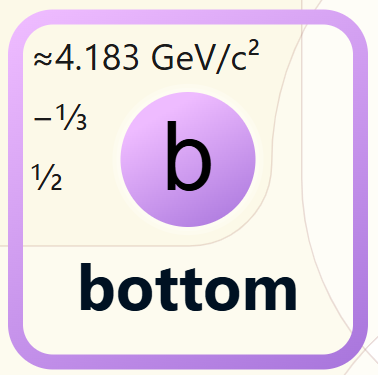
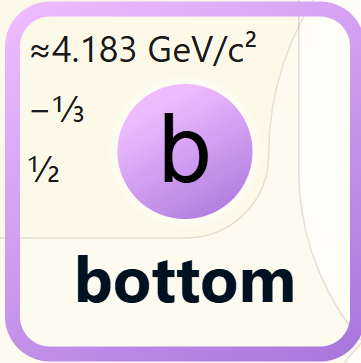
Added color and updated 'how to read'

diff --git a/stylesheet.css b/stylesheet.css
@@ -1,17 +1,24 @@
+html {
+    background-color: rgb(81, 155, 192);
+}
+
 h1 {
     text-align: center;
+    color: rgb(173, 213, 232);
     font-family: "Mrs Saint Delafield", cursive;
     font-size: 100px;
 }
 
 h2 {
     text-align: center;
+    color: rgb(173, 213, 232);
     font-family: "Mrs Saint Delafield", cursive;
     font-size: 50px;
 }
 
 p {
     font-family: Arvo;
+    color: rgb(173, 213, 232);
     font-size: 20px;
     margin: 40px;
 }
@@ -24,6 +31,7 @@ p {
     justify-content: space-evenly;
     align-items: center;
     margin-top: 30px;
+    color: rgb(173, 213, 232);
 }
 .mrs-saint-delafield-regular {
     font-family: "Mrs Saint Delafield", cursive;
@@ -107,7 +115,7 @@ p {
 }
 
 .item :hover {
-    border: 5px solid #3832b2;
+    border: 8px solid rgb(33, 136, 188);
     border-radius: 15px;
 }
 
@@ -122,19 +130,24 @@ p {
     border-radius: 10px;
 }
 
+img {
+    border-radius: 10px;
+}
+
 a {
     text-decoration: none;
-    color: black;
+    color: rgb(173, 213, 232);
 }
 
 
  a:hover {
-    color: grey;
+   color: rgb(33, 136, 188);
 }
 
 .footer{
     margin-top: 30px;
-    border: 3px solid black;
+    background-color: white;
+    border: 8px solid rgb(33, 136, 188);
     border-radius: 10px;
     margin: 0;
     padding: 30px;
@@ -148,5 +161,9 @@ a {
 .footer a{
     padding: 10px;
     font-family: Arvo;
-    color: black;
+    color: rgb(173, 213, 232);
+}
+
+.footer a:hover{
+    color: rgb(33, 136, 188);
 }

diff --git a/howtoread.html b/howtoread.html
@@ -11,8 +11,21 @@
     </head>
 
     <body>
-        <a href="main.html"><h4>&lt; Back</h4></a>
-        <h1>How to Read the Standard Model</h1>
-        <img src = "upquark.png">
+        <a href="main.html"><p>&lt; Back</p></a>
+        <h2>How to Read the Standard Model</h2>
+        <center><img src = "upquark.png"></center>
+        <p>The mass of a particle is important because it describes 
+        how it interacts with the universe. It determines its behavior,
+        including its resistance to acceleration (inertia), its gravitational
+        interaction, and its energy.</p>
+
+        <p>The charge of a particle is important because it determines
+        how the particle interacts with other charged particles 
+        and electromagnetic fields.</p>
+
+        <p>Particle spin is not an external rotation. 
+        It's a form of angular momentum, meaning it has 
+        both magnitude and direction, and it's quantized,
+        meaning only certain values are allowed.</p>
     </body>
 </html>

diff --git a/topquark.html b/topquark.html
@@ -11,10 +11,7 @@
     </head>
 
     <body>
-        <a href="main.html"><p>&lt; Back</p></a>
-        <h1>Up Quark</h1>
-        <p>Quarks </p>
-        <p>The up quark is one of the six types of quarks in the Standard Model of particle physics.</p>
-        <img src = "upquark.png">
+        <p><a href="main.html">&lt; Back</a></p>
+        <img src = "topquark.png">
     </body>
 </html>

diff --git a/charmquark.html b/charmquark.html
@@ -12,9 +12,6 @@
 
     <body>
         <a href="main.html"><p>&lt; Back</p></a>
-        <h1>Up Quark</h1>
-        <p>Quarks </p>
-        <p>The up quark is one of the six types of quarks in the Standard Model of particle physics.</p>
-        <img src = "upquark.png">
+        <img src = "charmquark.png">
     </body>
 </html>
